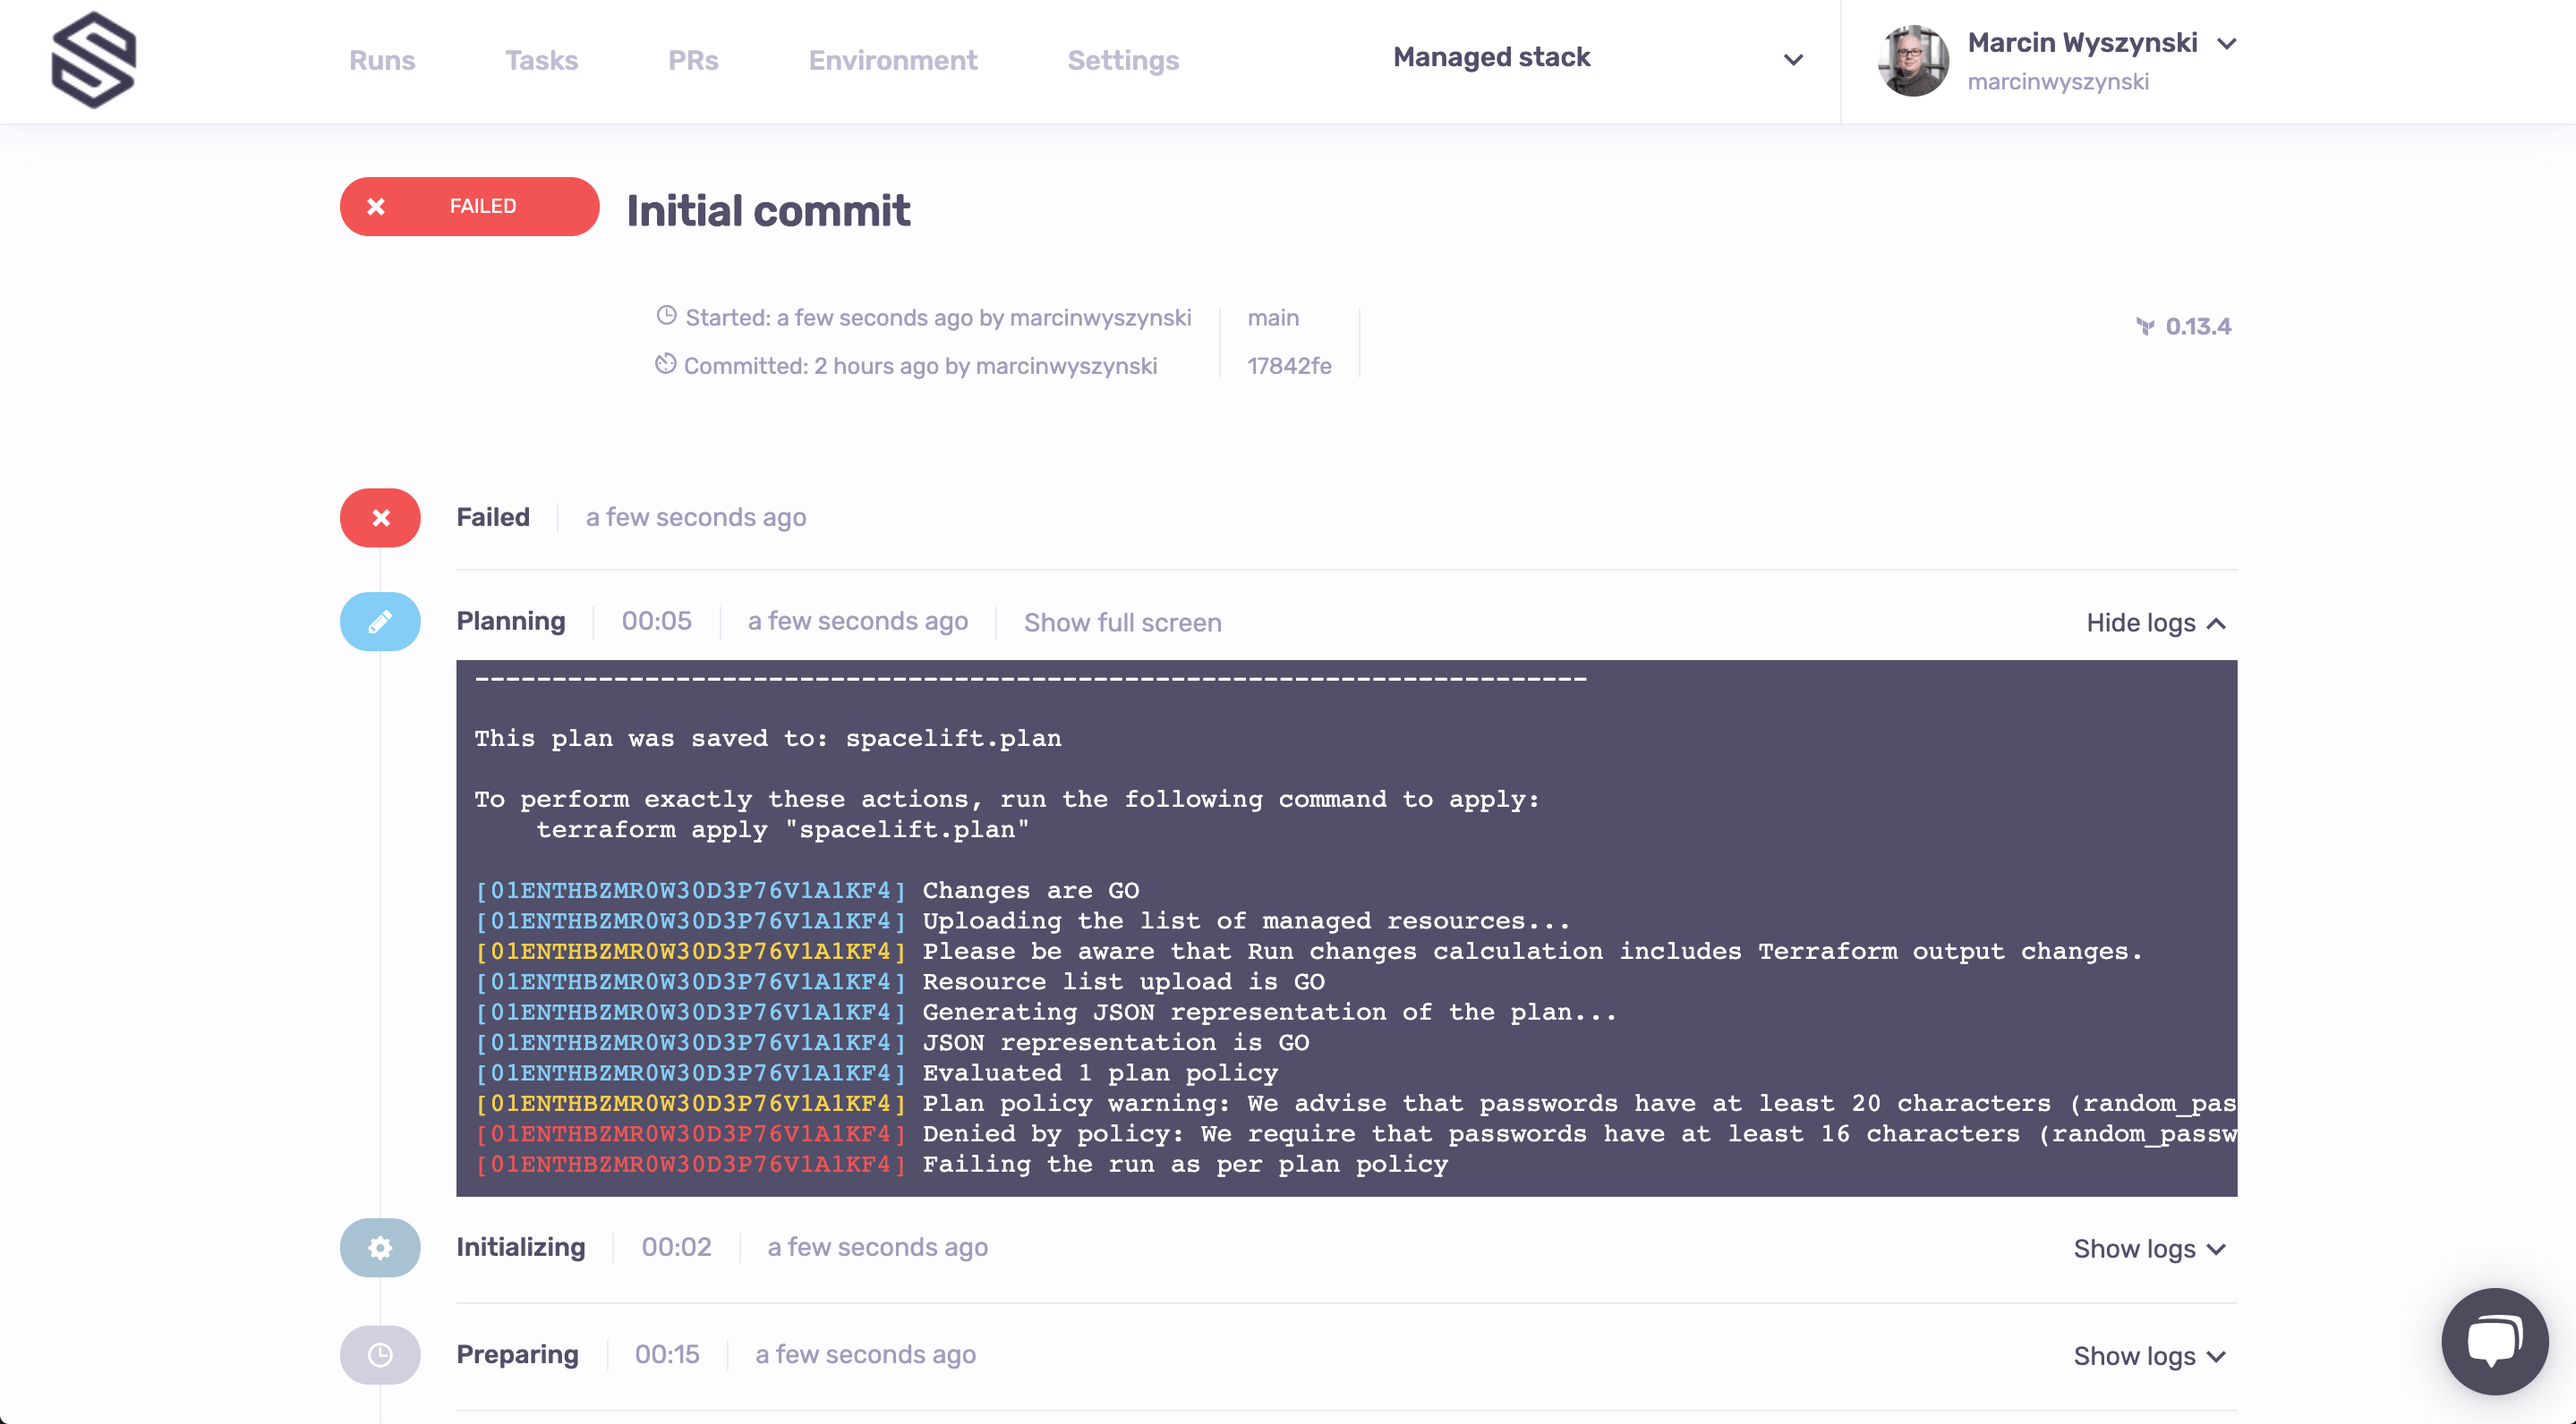
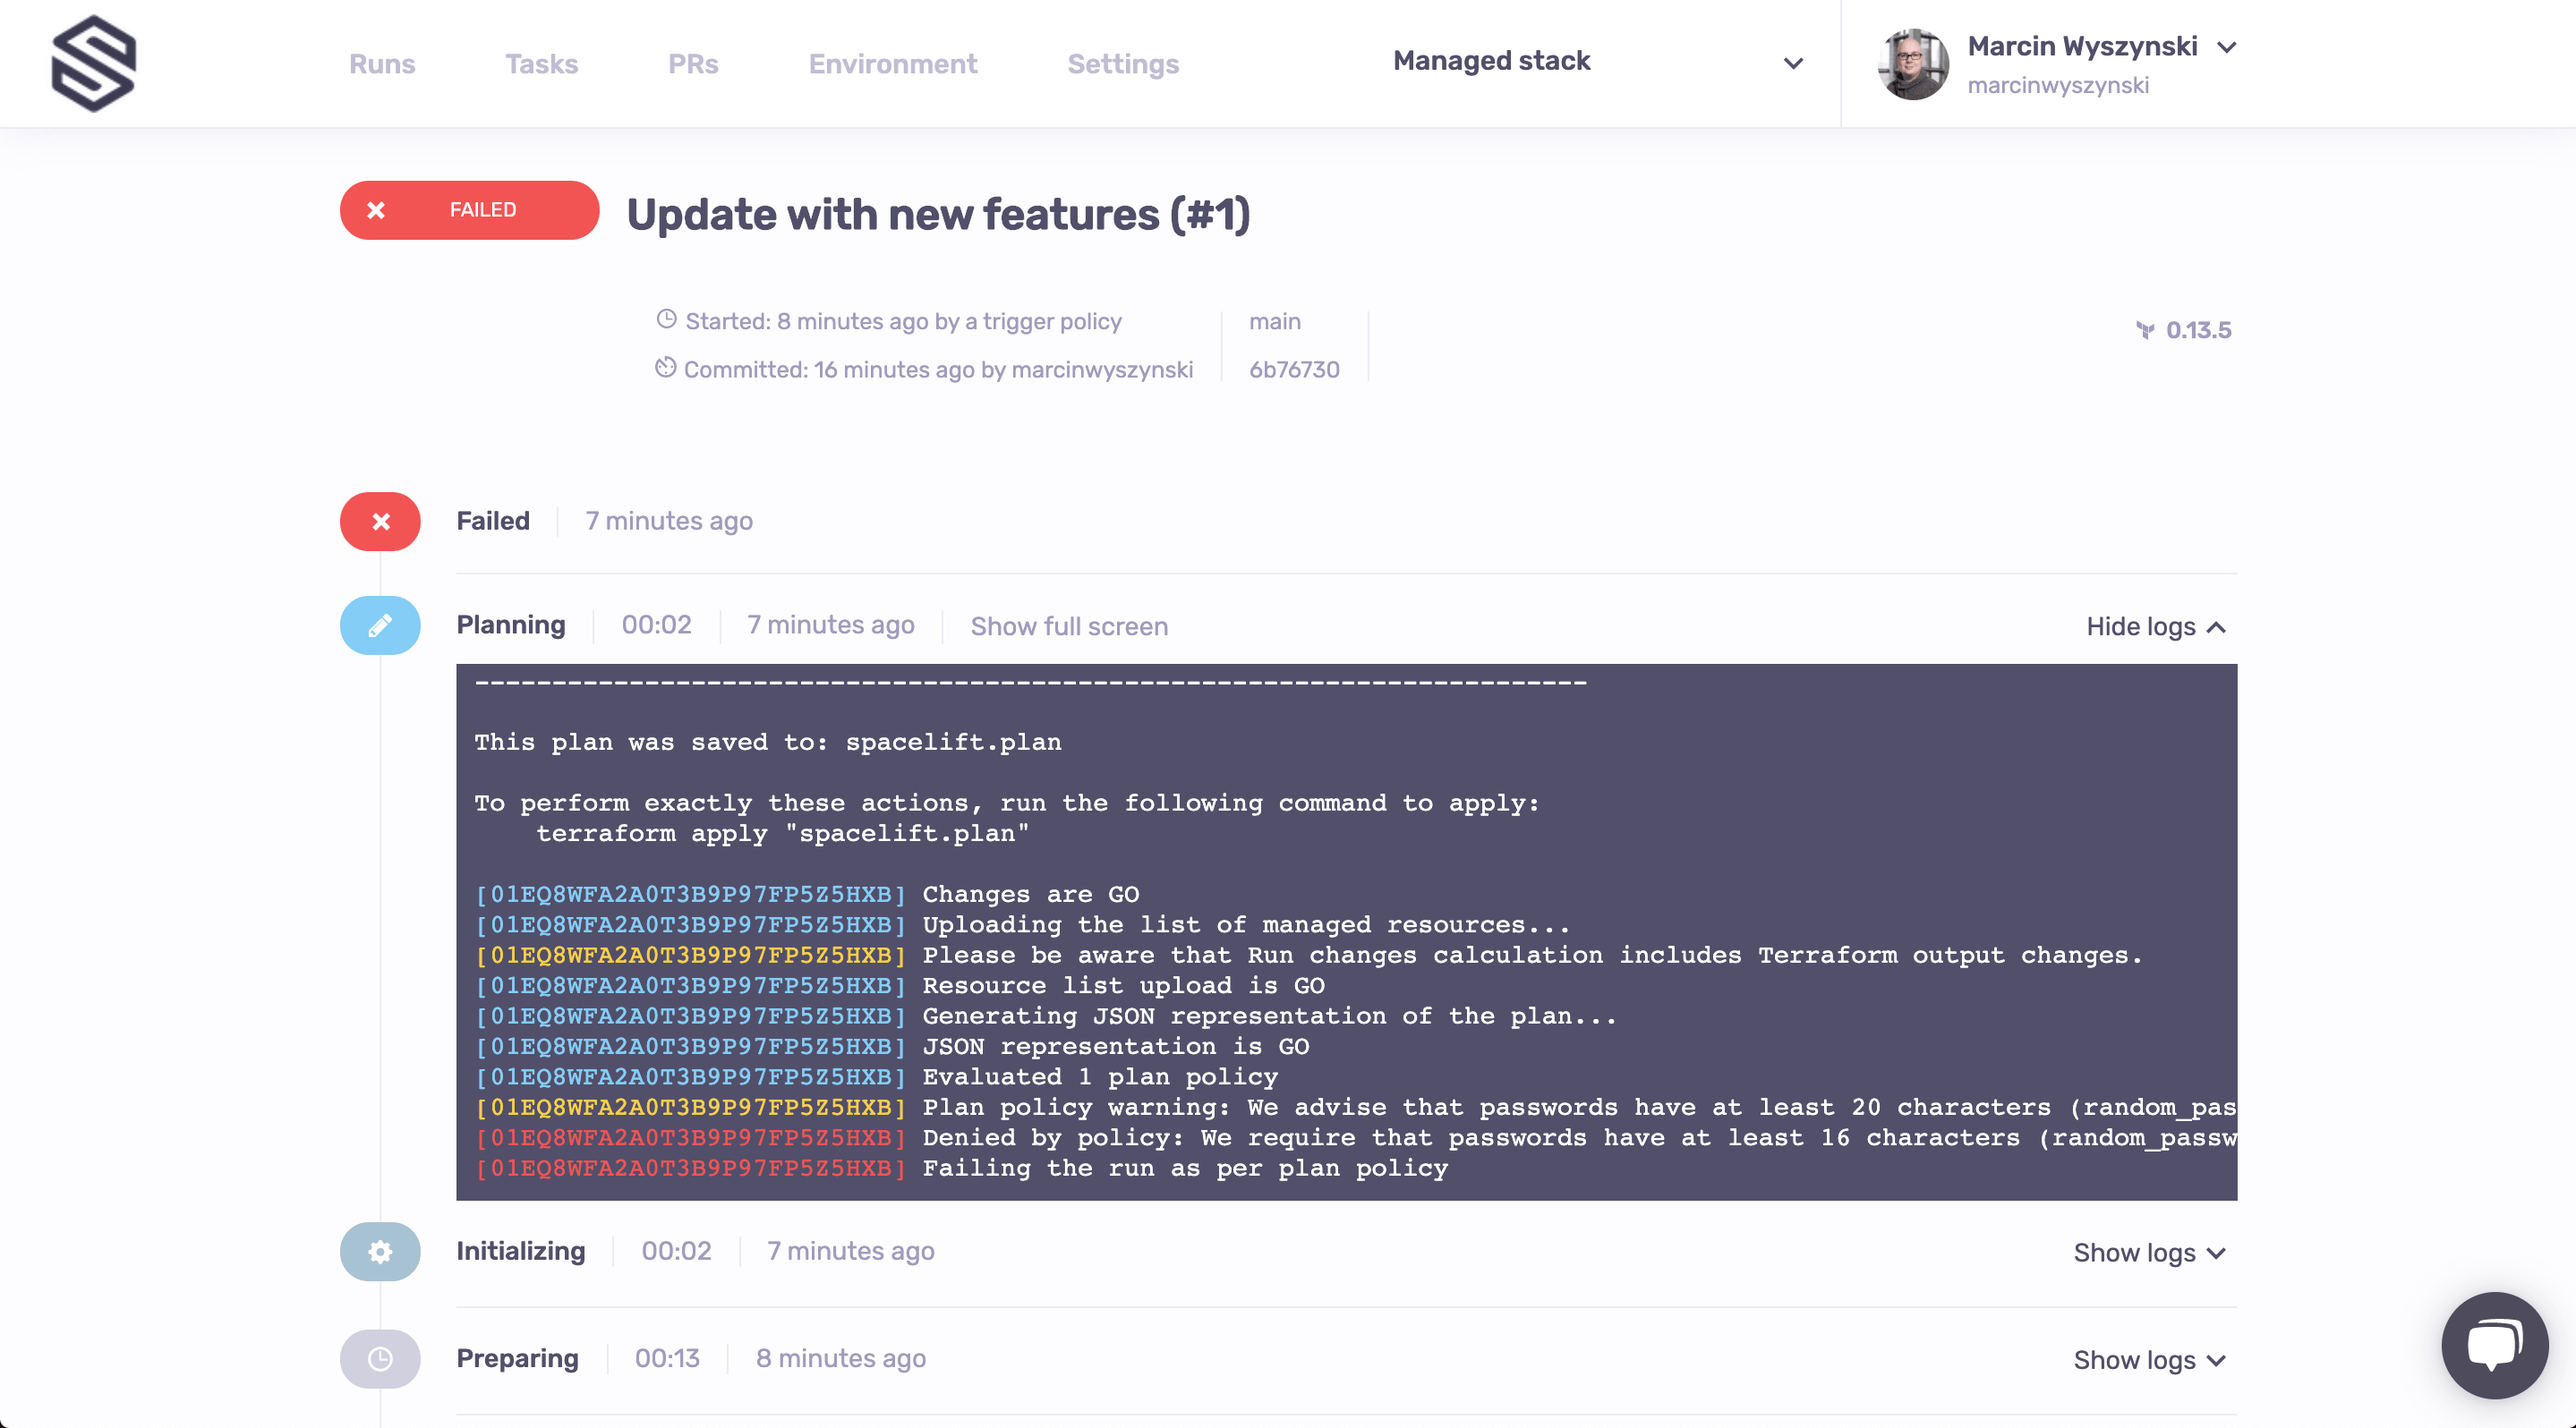
Update with new features (#1)

diff --git a/README.md b/README.md
@@ -70,6 +70,8 @@ What we just did in Step 3 was creating a bunch of very useful Spacelift resourc
 
 ![New stack](pics/10-new-stack-min.png)
 
+And yes, it's red. Yes, it's normally a bad sign. And yes, this is expected - one of the exercises here is to fix it.
+
 ### Environment
 
 Now where did _that_ come from? In fact, we had it declared it using Terraform, just [here](./stack.tf). The same file defines a bunch of things related to the environment, so let's click on the name of the new stack to be taken to its screen. Since it doesn't contain anything interesting just yet, let's quickly navigate to the _Environment_ screen. And it's indeed a very busy screen, so let's just look at the first section there:
@@ -110,11 +112,11 @@ All these policies are defined and explained in the [`policies.tf`](./policies.t
 
 - _Allow only safe commands_ is a [task policy](https://docs.spacelift.io/concepts/policy/task-run-policy) that only allows you to run certain commands as [tasks](https://docs.spacelift.io/concepts/task). This is another one that we're going to try hands-on;
 
-- _Trigger stacks that declare an explicit dependency_ is a [trigger policy](https://docs.spacelift.io/concepts/policy/trigger-policy) that will cause every stack that declares dependency to be triggered when the current one is updated - while this one is probably beyond the scope of the basic tutorial, we wanted to show you that Spacelift is Turing-complete 😜
+- _Trigger stacks that declare an explicit dependency_ is a [trigger policy](https://docs.spacelift.io/concepts/policy/trigger-policy) that will cause every stack that declares dependency to be triggered when the current one is updated - while this one is probably beyond the scope of the basic tutorial, we wanted to show you that Spacelift is Turing-complete. Also, a trigger policy is what triggered a failing run on the newly created stack 😜
 
 ### Policies in practice
 
-While it's worth mentioning that we're using an [open-source language](https://www.openpolicyagent.org/) for our policies, authoring policies is outside of the scope of this tutorial. Instead, we'd like to show you the power of policies hands-on. Let's then navigate to our new stack (_Managed stack_) and trigger a run. Oh no, what did just happen? Looks like what we're trying to does not agree with our policy:
+While it's worth mentioning that we're using an [open-source language](https://www.openpolicyagent.org/) for our policies, authoring policies is outside of the scope of this tutorial. Instead, we'd like to show you the power of policies hands-on. Let's then navigate to our new stack (_Managed stack_) and try to figure out why the run created by the trigger policy failed? Looks like what we're trying to does not agree with our policy:
 
 ![Plan policy failing a run](pics/15-failed-commit-min.png)
 
